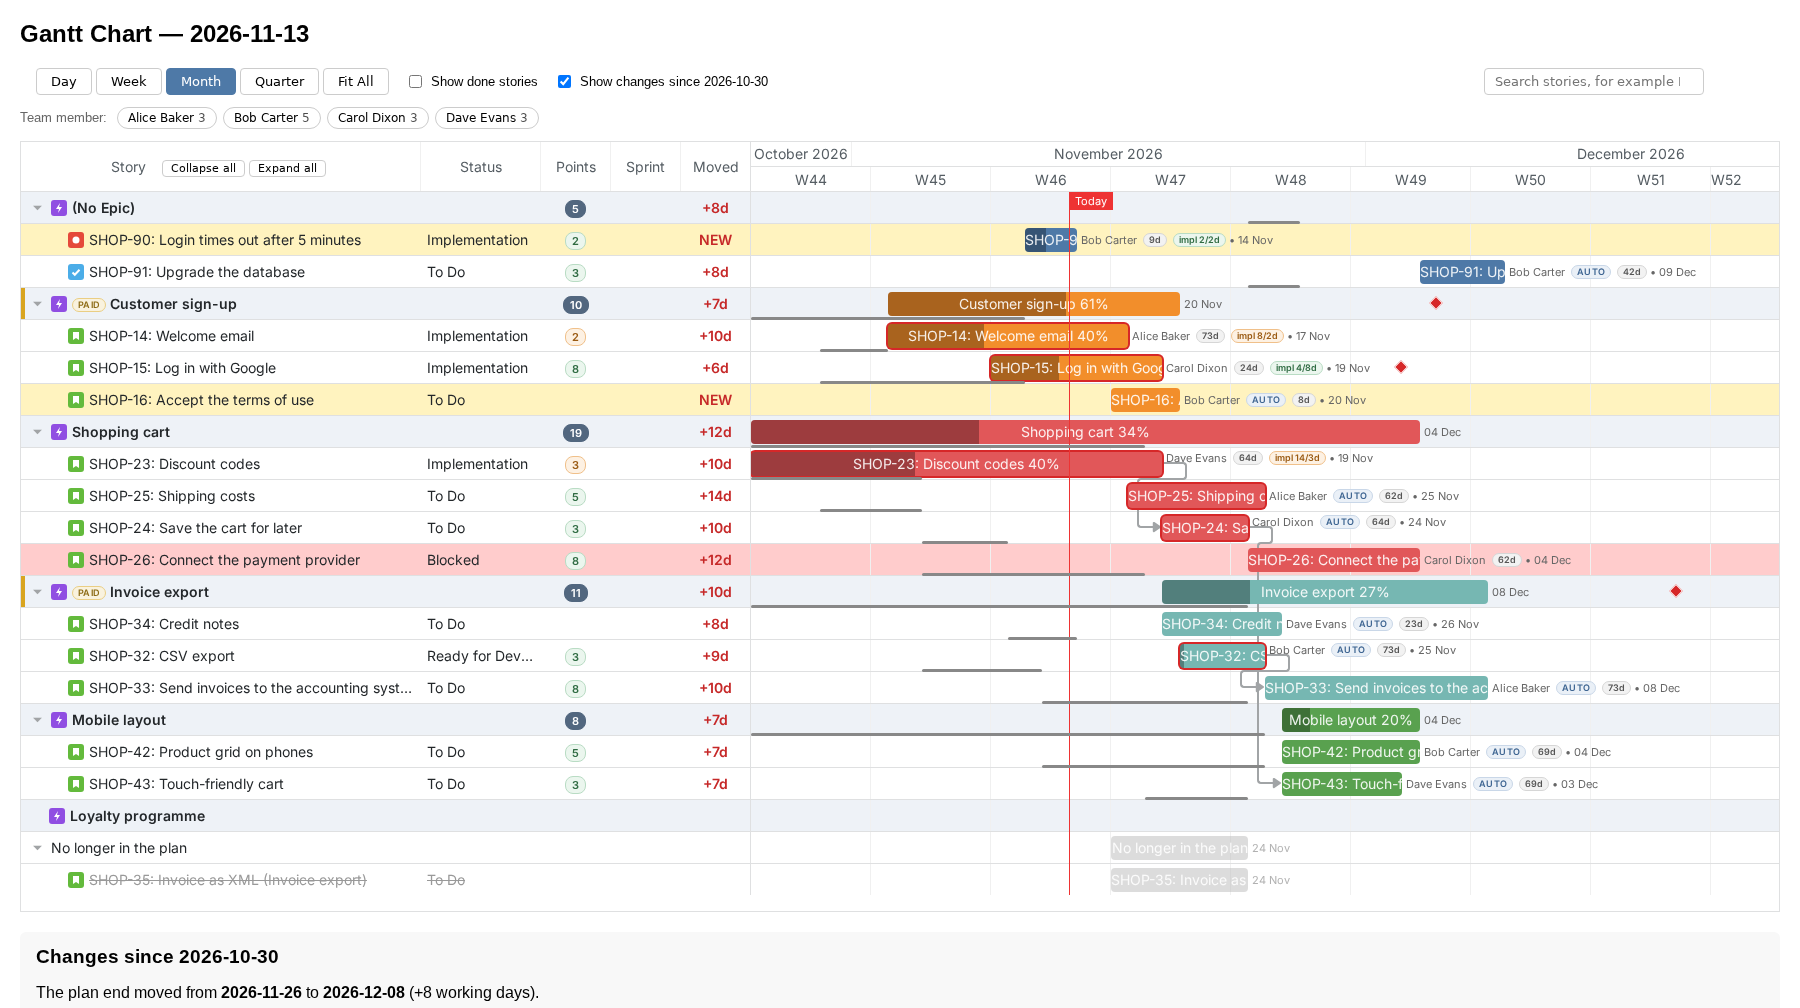
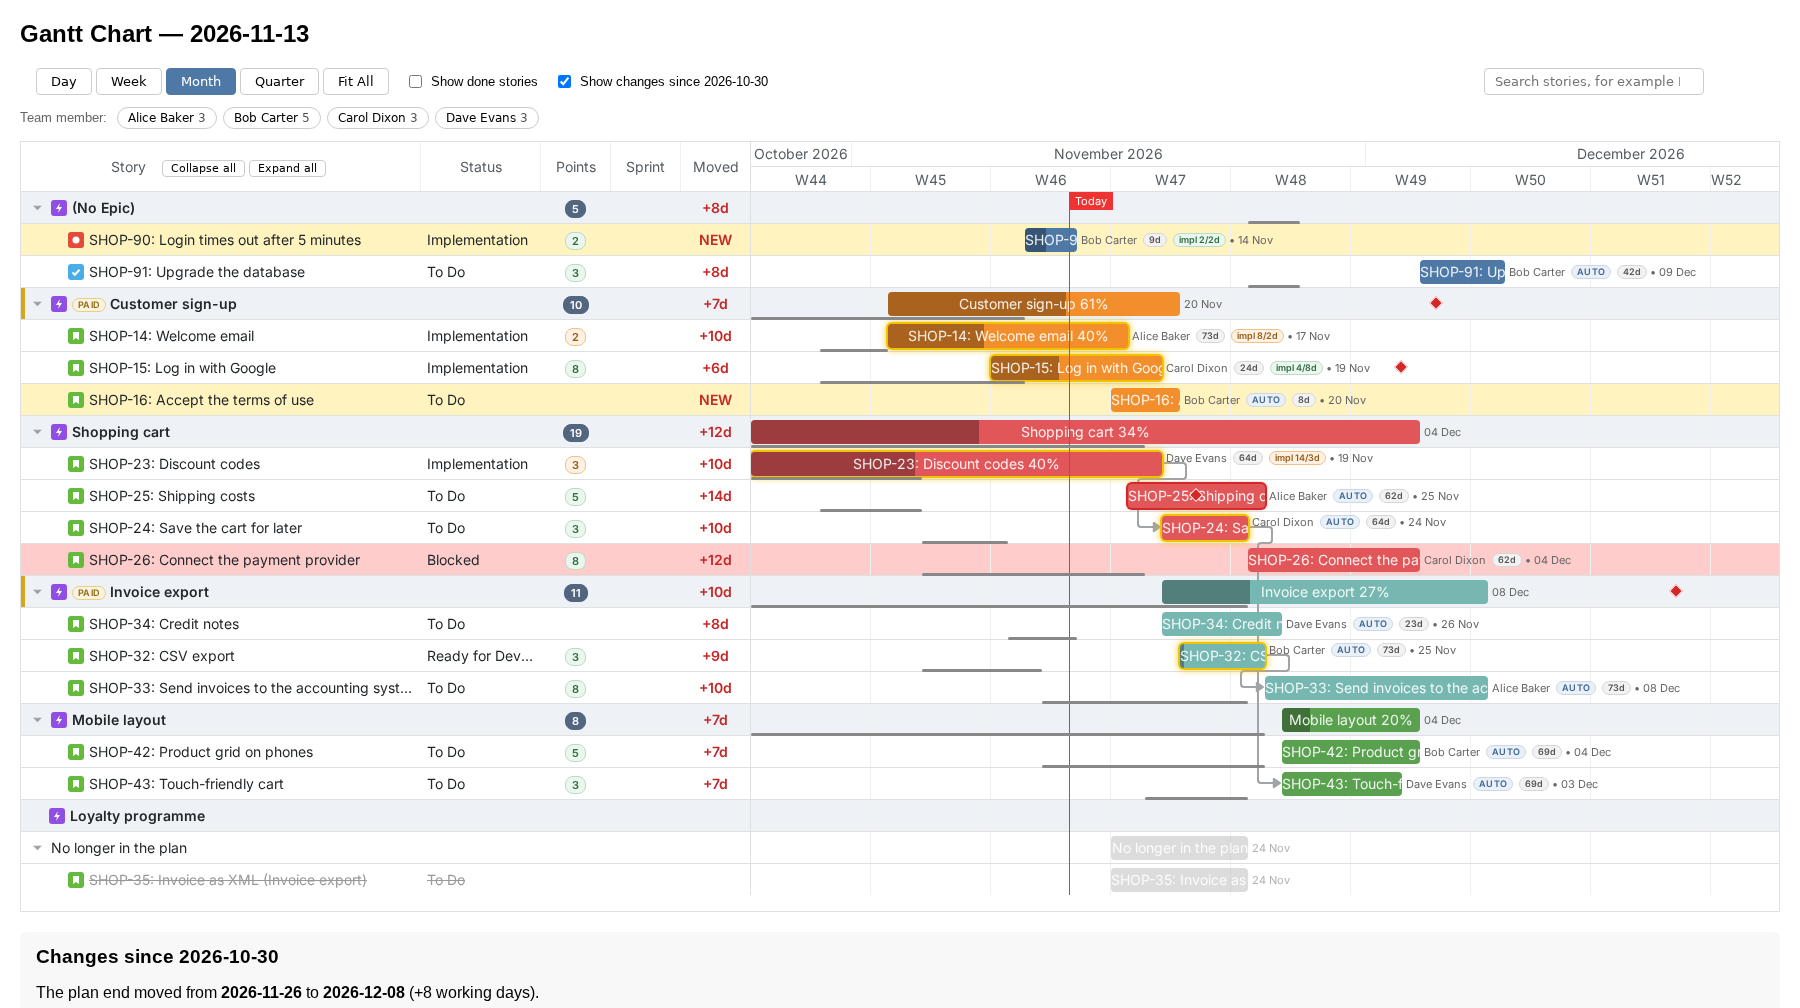
Restore the blinking red outline for stories past their due date
- Show a blinking red outline on an open story or epic that ends after its due date
- Show a story that is behind the baseline with a static yellow outline and glow
- Take the screenshot again with both outlines

diff --git a/jira_smurf.py b/jira_smurf.py
@@ -2074,7 +2074,15 @@ def write_gantt_html(scheduled_stories, status_map, dependencies=None, holidays=
   .gantt_task_line.roadmap-epic {{ opacity: 0.75;
     background-image: repeating-linear-gradient(45deg, rgba(255,255,255,0.45) 0 6px, transparent 6px 12px); }}
   .gantt_task_line.no-bar {{ display: none; }}
-  .gantt_task_line.change-late {{ box-shadow: 0 0 0 2px #d62728; }}
+  .gantt_task_line.change-late {{ box-shadow: 0 0 0 2px #f2c200, 0 0 6px 3px rgba(242, 194, 0, 0.6); }}
+  .gantt_task_line.due-late {{ box-shadow: 0 0 0 2px #d62728; animation: due-late-glow 0.5s ease-in-out infinite; }}
+  @keyframes due-late-glow {{
+    0%, 100% {{ box-shadow: 0 0 0 2px #d62728, 0 0 2px 1px rgba(214, 39, 40, 0.3); }}
+    50% {{ box-shadow: 0 0 0 2px #d62728, 0 0 8px 4px rgba(214, 39, 40, 0.6); }}
+  }}
+  @media (prefers-reduced-motion: reduce) {{
+    .gantt_task_line.due-late {{ animation: none; }}
+  }}
   .delta-up {{ color: #c62828; font-weight: 600; }}
   .delta-down {{ color: #2e7d32; font-weight: 600; }}
   .due-marker {{ position: absolute; width: 10px; height: 10px; background: #d62728; border: 1px solid #fff;
@@ -2458,6 +2466,11 @@ function zoomToFit() {{
 var searchTerm = "";
 var searchMatchIds = {{}};      // {{taskId: true}} for tasks whose own text matches
 var searchVisibleIds = {{}};    // {{taskId: true}} for matches + their ancestors (kept un-dimmed)
+function endsAfterDueDate(task) {{
+  if (!task.due_date) return false;
+  var dayAfterDue = gantt.date.add(gantt.date.str_to_date("%Y-%m-%d")(task.due_date), 1, "day");
+  return task.end_date > dayAfterDue;
+}}
 function changeBarClass(task) {{
   if (!showChanges) return "";
   if (task.removed) return " change-removed";
@@ -2472,7 +2485,10 @@ function joinClasses() {{
   return Array.prototype.filter.call(arguments, Boolean).join(" ");
 }}
 gantt.templates.task_class = function(start, end, task) {{
-  var base = (task.progress >= 1 ? "clickable-task task-done" : "clickable-task") + changeBarClass(task) +
+  // Red for ending after the due date wins over yellow for being behind the baseline
+  var pastDueDate = !task.removed && task.progress < 1 && endsAfterDueDate(task);
+  var base = (task.progress >= 1 ? "clickable-task task-done" : "clickable-task") +
+    (pastDueDate ? " due-late" : changeBarClass(task)) +
     (task.roadmap ? " roadmap-epic" : "") + (task.no_bar ? " no-bar" : "");
   if (!searchTerm) return base;
   if (searchMatchIds[task.id]) return base + " search-match";

diff --git a/README.md b/README.md
@@ -179,7 +179,8 @@ login. If an icon cannot be downloaded, the page shows an emoji instead: 📖 ep
 support request, 🧹 technical debt and 📄 any other type. In the day view, weekends and holidays
 have a gray background. When a story or epic has a due date in Jira, the chart shows a red diamond
 on its row. The diamond is at the end of the due date. The bar of the epic will grow past the due
-date according to the planned stories. When you print the chart or save it as PDF, the bars and row
+date according to the planned stories. A story or epic that is not done and ends after its due date
+has a blinking red outline. When you print the chart or save it as PDF, the bars and row
 backgrounds keep their colors.
 
 ### Changes and trend
@@ -199,7 +200,8 @@ The checkbox "Show changes since …" in the toolbar turns these marks on and of
 - Hover over a story with a changed estimate to see the change, for example `Estimate: 16h → 24h`.
 - A thin gray bar under a story or epic shows its dates in the baseline.
 - The Moved column shows how many working days the end date moved.
-- A story that the baseline planned to be done by now, but that is still open, has a red outline.
+- A story that the baseline planned to be done by now, but that is still open, has a yellow outline.
+  If it also ends after its due date, the blinking red outline is shown instead.
 - Open stories that are no longer in the plan are listed in a gray group at the end of the chart.
 
 Below the chart, a summary shows how far the plan end moved and why: new stories, changed estimates,

diff --git a/CHANGES.md b/CHANGES.md
@@ -19,6 +19,8 @@ The tool has no version numbers yet. This file lists the changes per week, newes
 - Add the `exclude` setting, to leave single stories or whole projects out of the Gantt chart.
 - Show the stories without an epic at the top of the Gantt chart, without a bar for the group.
 - Keep the bar colors and row backgrounds when you print the Gantt chart.
+- Restore the blinking red outline on a story or epic that ends after its due date.
+- Show a story that is behind the baseline with a yellow outline, not a red one.
 
 ## Week of 2026-11-02
 
@@ -48,6 +50,7 @@ The tool has no version numbers yet. This file lists the changes per week, newes
 - Plan in the order of the Jira backlog with `use_backlog_order`.
 - Plan started stories and stories in the active sprint before the rest of the backlog.
 - Show a red diamond on the due date of a story or epic.
+- Show a blinking red outline on a story or epic that ends after its due date.
 - Show an epic without stories as a bar from its Start date to its Due date in Jira.
 - Use Jira links of the types in `dependency_links` as dependencies, and draw them as arrows.
 - Show the Jira issue type icons in the Story column.
